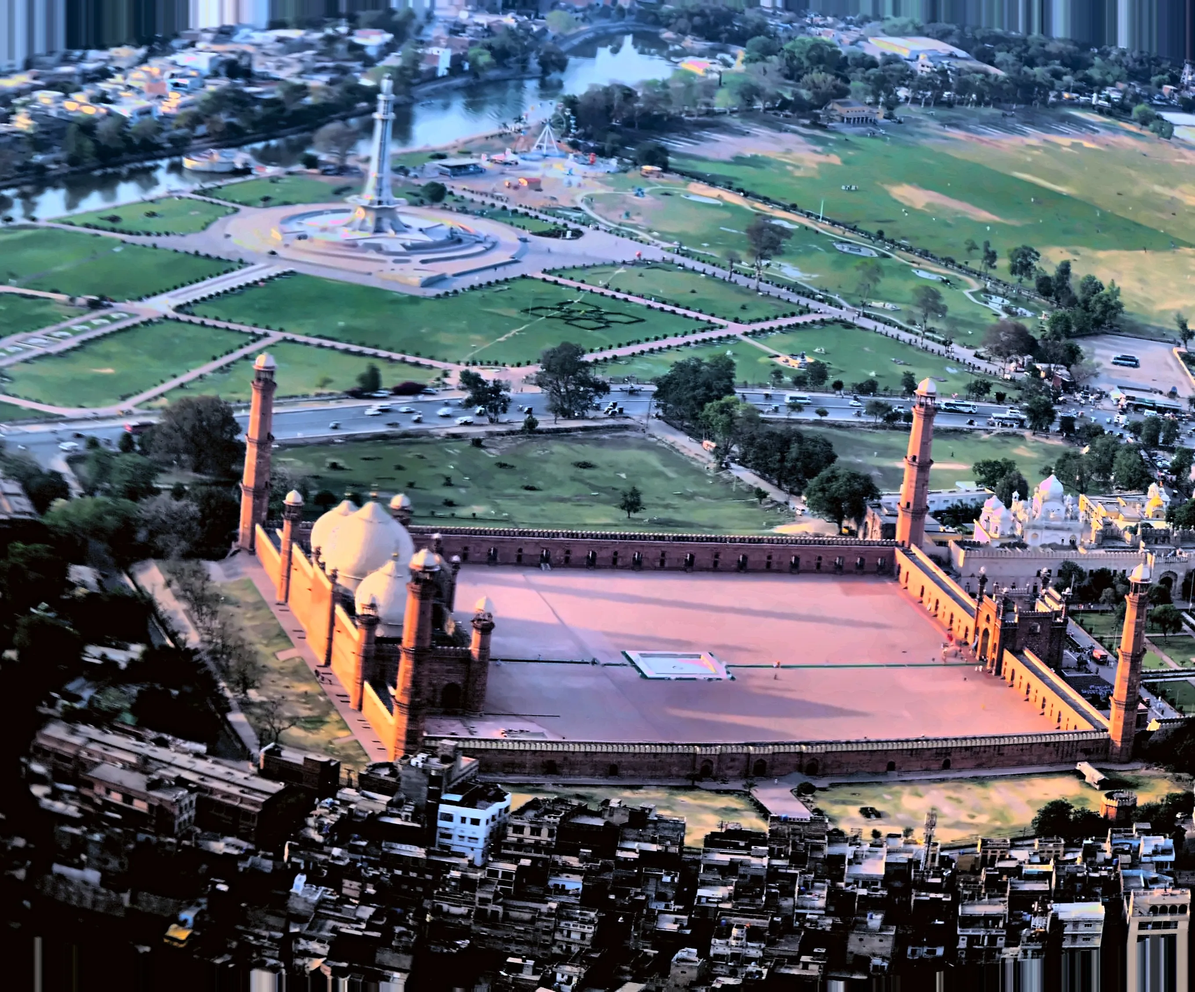
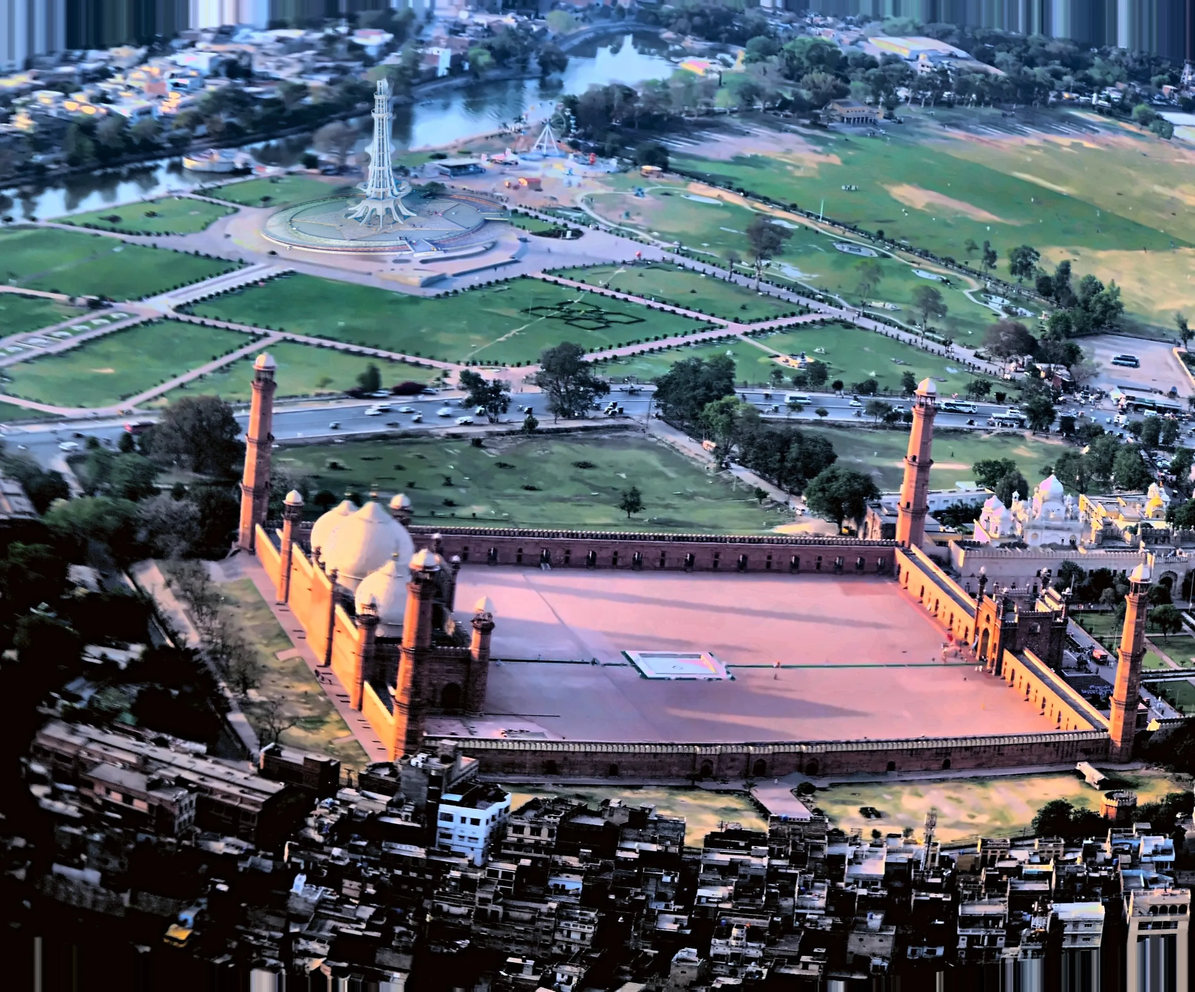
Sharper Minar-e-Pakistan in the Badshahi / Minar aerial photo
The Minar-e-Pakistan in badshahi-minar.webp was soft. It is replaced with
the one from "Aerial view of Minar e Pakistan" (Idaudpota, same evening
flight, CC BY-SA 4.0):

- platform: perspective-warped onto the original platform and blended in
  with seamless cloning
- tower: cut out, scaled to the original height, colour-matched and placed
  on the platform centre

Thumbnails rebuilt; README and credits/ list the added source photo.

Claude-Session: https://claude.ai/code/session_012PAoKMvkDp8HBtnPawuE3a

Changed region(s): [[0.2188, 0.062, 0.4375, 0.279]]

diff --git a/credits/README.md b/credits/README.md
@@ -18,14 +18,17 @@ same CC BY-SA 4.0 licence.
 
 | File on this site | Used for | Original photo | Author | Licence |
 | --- | --- | --- | --- | --- |
-| `assets/aerial/badshahi-minar.webp` | Aerial View of Badshahi Mosque, Minar-e-Pakistan Aerial View, Allama Iqbal Park Aerial View | [Badshahi Mosque with Minar e Pakistan in the background. Lahore.jpg](https://commons.wikimedia.org/wiki/File:Badshahi_Mosque_with_Minar_e_Pakistan_in_the_background._Lahore.jpg) | Idaudpota | CC BY-SA 4.0 |
+| `assets/aerial/badshahi-minar.webp` | Aerial View of Badshahi Mosque, Minar-e-Pakistan Aerial View, Allama Iqbal Park Aerial View | [Badshahi Mosque with Minar e Pakistan in the background. Lahore.jpg](https://commons.wikimedia.org/wiki/File:Badshahi_Mosque_with_Minar_e_Pakistan_in_the_background._Lahore.jpg) (base) + [Aerial view of Minar e Pakistan.jpg](https://commons.wikimedia.org/wiki/File:Aerial_view_of_Minar_e_Pakistan.jpg) (sharper Minar-e-Pakistan and its platform, put in place) | Idaudpota | CC BY-SA 4.0 |
 | `assets/aerial/hazuri-fort.webp` | Hazuri Bagh Aerial View, Deewan-e-Aam Aerial View, Deewan-e-Khas Aerial View | [Badshahi and Lahore in the Evening. Aerial View.jpg](https://commons.wikimedia.org/wiki/File:Badshahi_and_Lahore_in_the_Evening._Aerial_View.jpg) (base) + [Badshahi Mosqu - Mughal Art in an Ocean of Concrete.jpg](https://commons.wikimedia.org/wiki/File:Badshahi_Mosqu_-_Mughal_Art_in_an_Ocean_of_Concrete.jpg) (sharper middle part, stitched in) | Idaudpota | CC BY-SA 4.0 |
 | `assets/aerial/thumbs/*.webp` | Thumbnails of the views above | Cropped from the two files above | Idaudpota | CC BY-SA 4.0 |
 
 ### What was changed
 
 - **badshahi-minar.webp**: removed purple colour fringing on the white domes, light noise
-  reduction, opened up dark shadows, warmer colour balance, sharpening, 1.5× upscale.
+  reduction, opened up dark shadows, warmer colour balance, sharpening, 1.5× upscale. The soft
+  Minar-e-Pakistan was replaced: its platform was cut from the second photo (taken on the same
+  evening flight), perspective-warped onto the original platform and blended in, and the tower was
+  cut out, scaled to the original's height and placed on top.
 - **hazuri-fort.webp**: the second photo was aligned onto the first and blended in, then the same
   colour, noise and sharpening clean-up.
 - Both are stored as partial panoramas so the 360° viewer shows them with correct perspective.

diff --git a/README.md b/README.md
@@ -69,7 +69,7 @@ open the same photo on a different spot. The viewer shows the credit in its info
 
 | File | Source | Licence |
 | --- | --- | --- |
-| `assets/aerial/badshahi-minar.webp` | [Badshahi Mosque with Minar e Pakistan in the background](https://commons.wikimedia.org/wiki/File:Badshahi_Mosque_with_Minar_e_Pakistan_in_the_background._Lahore.jpg) by Idaudpota | [CC BY-SA 4.0](https://creativecommons.org/licenses/by-sa/4.0/) |
+| `assets/aerial/badshahi-minar.webp` | [Badshahi Mosque with Minar e Pakistan in the background](https://commons.wikimedia.org/wiki/File:Badshahi_Mosque_with_Minar_e_Pakistan_in_the_background._Lahore.jpg) with Minar-e-Pakistan from [Aerial view of Minar e Pakistan](https://commons.wikimedia.org/wiki/File:Aerial_view_of_Minar_e_Pakistan.jpg), both by Idaudpota | [CC BY-SA 4.0](https://creativecommons.org/licenses/by-sa/4.0/) |
 | `assets/aerial/hazuri-fort.webp` | [Badshahi and Lahore in the Evening](https://commons.wikimedia.org/wiki/File:Badshahi_and_Lahore_in_the_Evening._Aerial_View.jpg) combined with [Mughal Art in an Ocean of Concrete](https://commons.wikimedia.org/wiki/File:Badshahi_Mosqu_-_Mughal_Art_in_an_Ocean_of_Concrete.jpg), both by Idaudpota | [CC BY-SA 4.0](https://creativecommons.org/licenses/by-sa/4.0/) |
 
 The photos were colour-corrected, cleaned up and (for `hazuri-fort.webp`) stitched together; the
